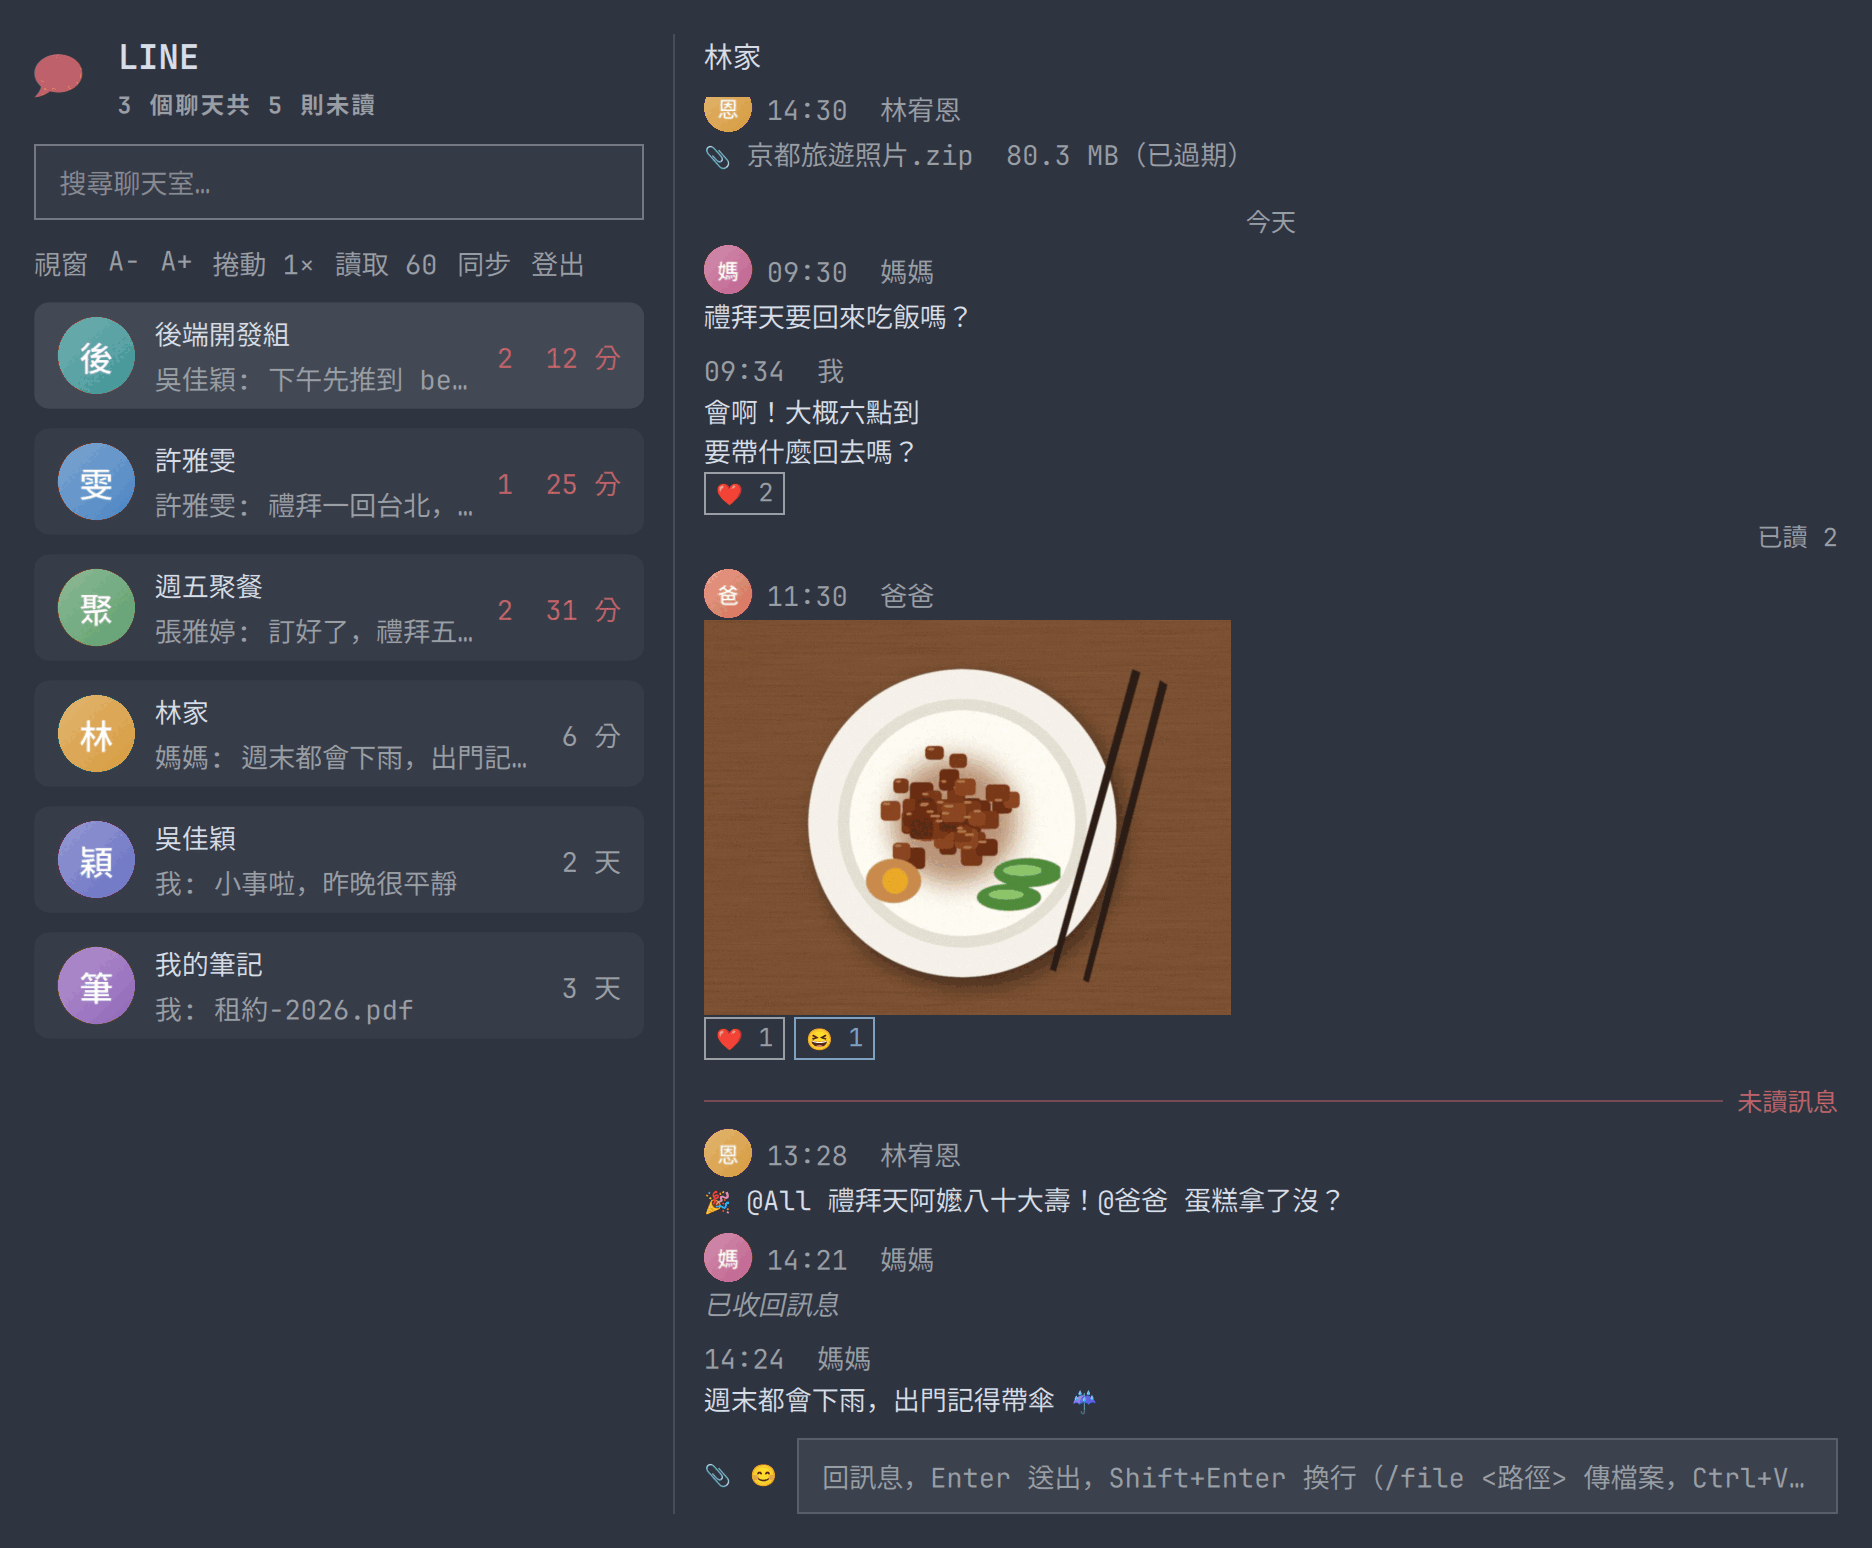
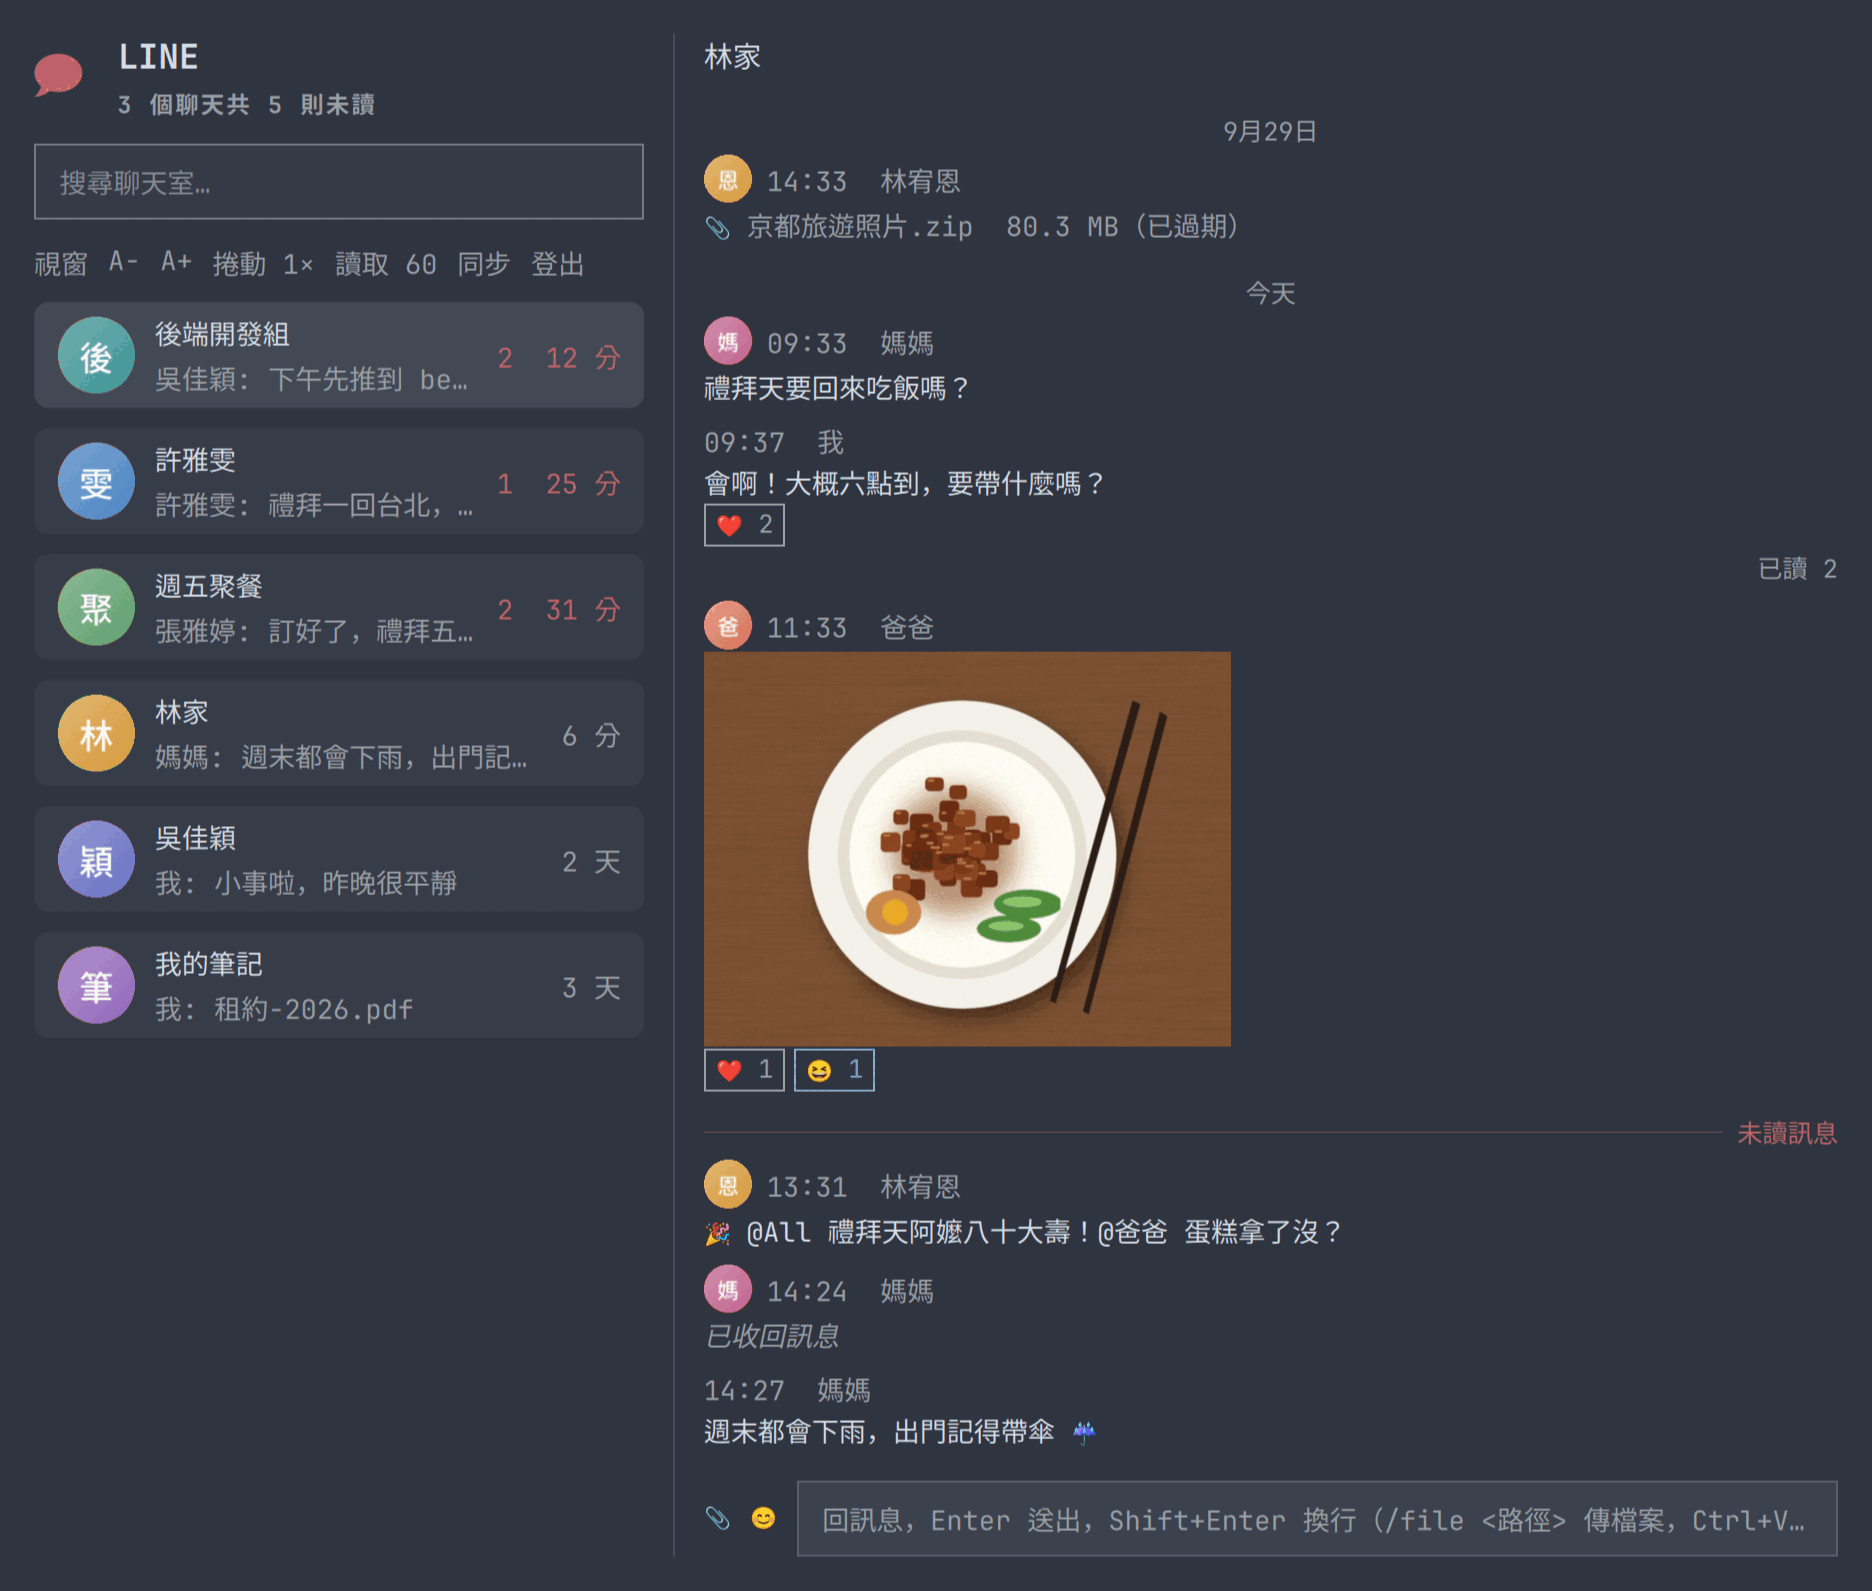
docs: recapture the zh screenshot without a clipped first row
The zh family chat ran one line too long for the window, so its first
row was cut at the top edge. The reply fits on one line now, and the zh
capture is 24px taller.

diff --git a/daemon/stub.py b/daemon/stub.py
@@ -954,7 +954,7 @@ DEMO_TEXT = {
     "zh": {
         "trip_zip": "京都旅遊照片.zip",
         "mom_dinner": "禮拜天要回來吃飯嗎？",
-        "me_dinner": "會啊！大概六點到\n要帶什麼回去嗎？",
+        "me_dinner": "會啊！大概六點到，要帶什麼嗎？",
         "nina_at": ["🎉 ", "@All", " 禮拜天阿嬤八十大壽！", "@爸爸",
                     " 蛋糕拿了沒？"],
         "mom_rain": "週末都會下雨，出門記得帶傘 ☔",

diff --git a/docs/development.zh-TW.md b/docs/development.zh-TW.md
@@ -157,7 +157,7 @@ dispatcher。另外還需要 `omarchy-shell`、`quickshell`、`grim`、`hyprctl`
    `OMARCHY_PATH`，裡面沒有全域快捷鍵檔，所以不會搶你 shell 的 IPC socket 或快捷鍵。
    一個什麼都不做的 `systemctl` 讓它不會去重啟你真正的 daemon。
 3. 只在第一種語言時，拍下帶未讀數的 bar 圖示。
-4. 把面板開成 1040×860 的浮動視窗，打開示範聊天室，等 4 秒讓圖片載入，再拍下視窗。
+4. 把面板開成浮動視窗（en 是 1040×860，zh 是 1040×884），打開示範聊天室，等 4 秒讓圖片載入，再拍下視窗。
 5. 停掉 stub 和第二個 shell，刪掉暫時目錄。有步驟失敗的話，會留下目錄方便看 log。
 
 第二個 shell 的 bar 會在它執行的那幾秒出現在你的 bar 下方。你的設定、state 和 daemon

diff --git a/docs/development.md b/docs/development.md
@@ -189,7 +189,7 @@ these steps:
    real daemon.
 3. For the first language only, it captures the bar icon with its unread
    count.
-4. It opens the panel as a floating 1040×860 window, opens the demo chat,
+4. It opens the panel as a floating window (1040×860 for en, 1040×884 for zh), opens the demo chat,
    waits 4 seconds for the images to load, and captures the window.
 5. It stops the stub and the second shell, and deletes the temporary
    directory. If a step failed, it keeps the directory for its logs.
